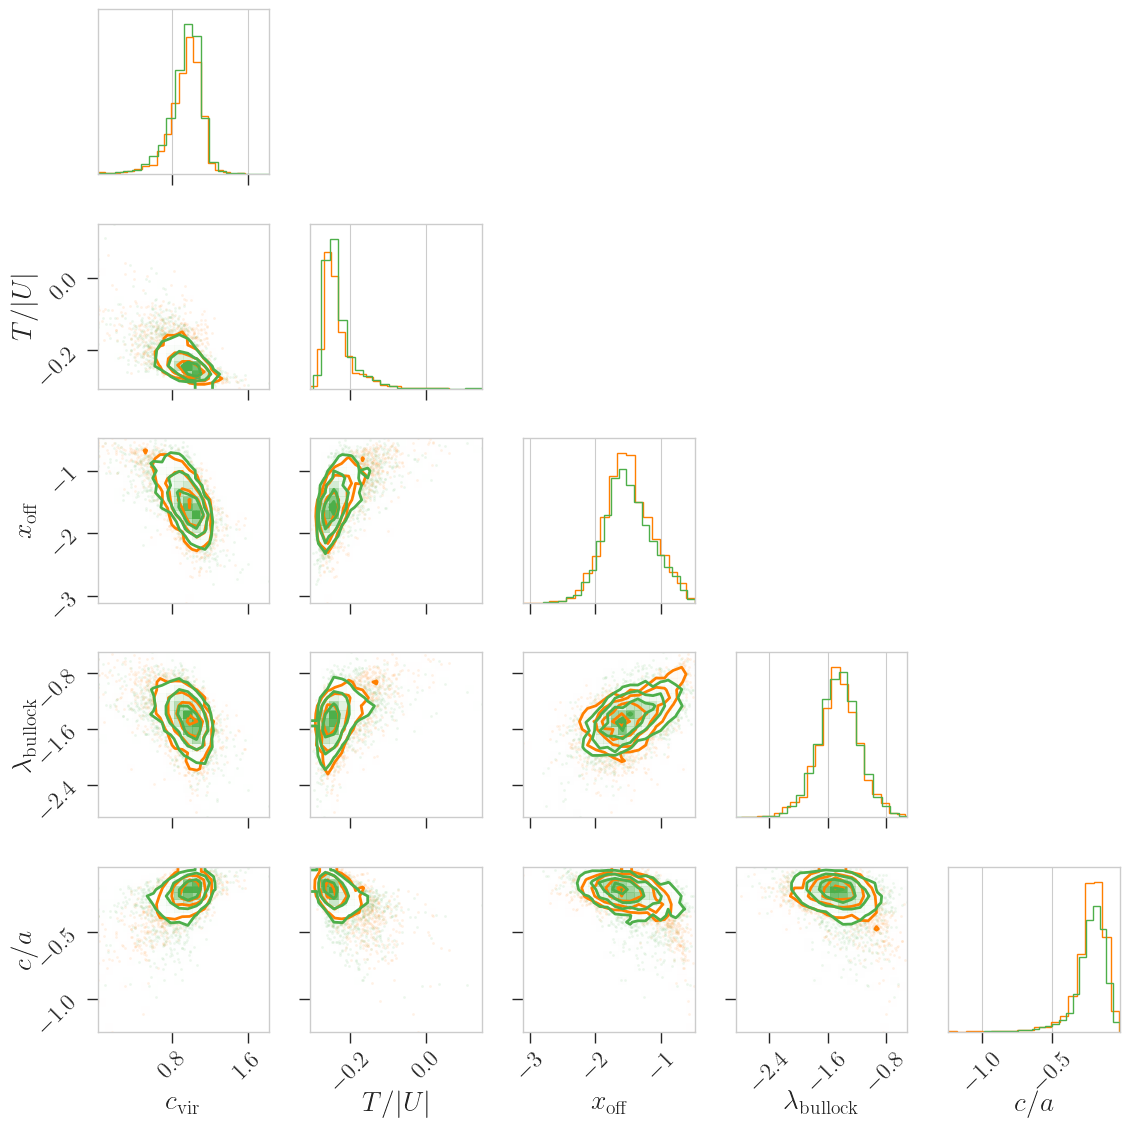
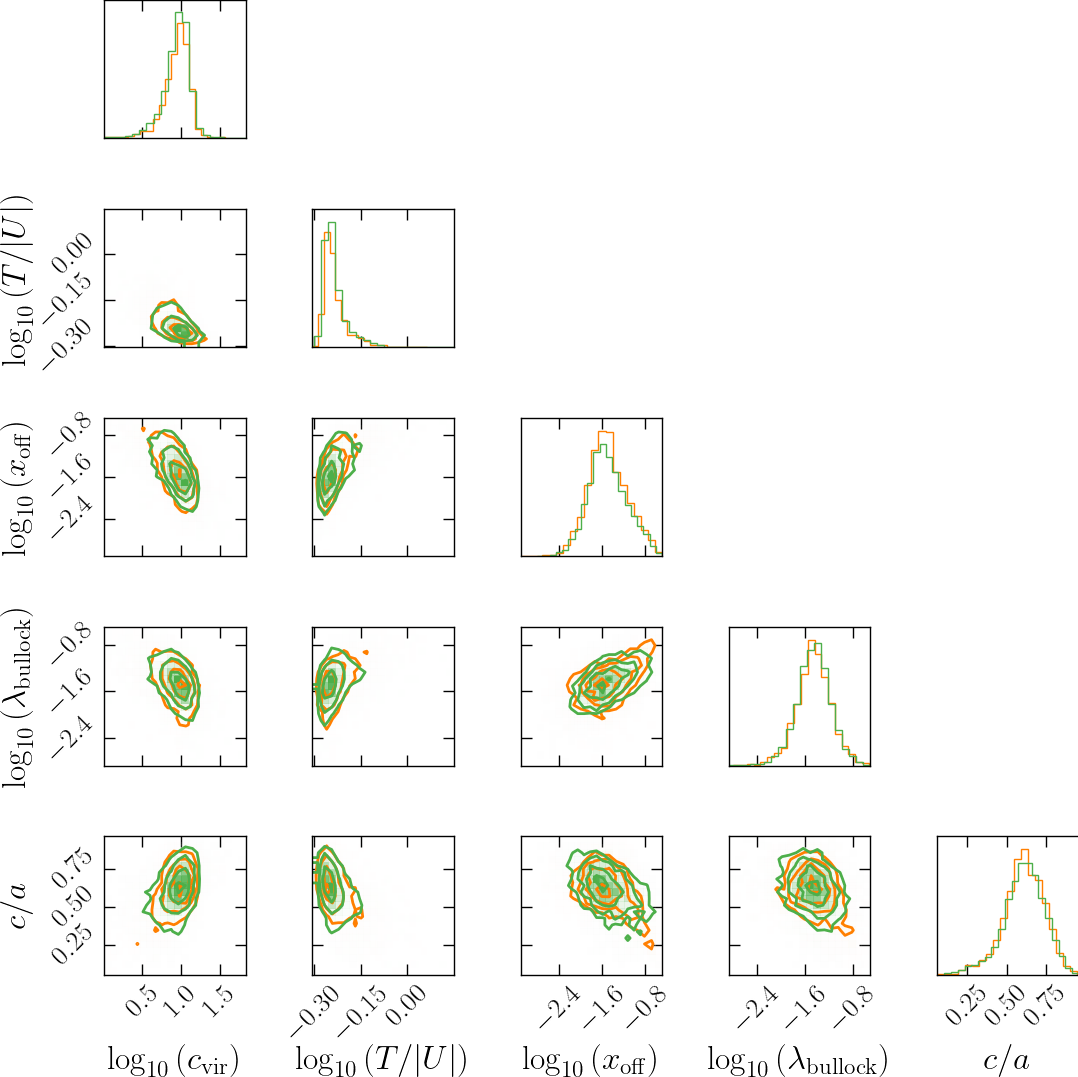
update triangle figures and add subset figures (#124)
* update triangle figures and add subset figures

* remove commented out

diff --git a/bin/figures.py b/bin/figures.py
@@ -52,10 +52,11 @@ class Figure(ABC):
     cache_name = ""
     params = ()
 
-    def __init__(self, overwrite=False, ext="png") -> None:
+    def __init__(self, overwrite=False, ext="png", style="seaborn-whitegrid") -> None:
         self.cache_file = CACHE_DIR.joinpath(self.cache_name).with_suffix(".npy")
         self.ext = "." + ext
         self.overwrite = overwrite
+        self.style = style
 
     @abstractmethod
     def _set_rc(self):
@@ -74,10 +75,13 @@ class Figure(ABC):
             data = self.get_data()
             np.save(self.cache_file, data)
         data = np.load(self.cache_file, allow_pickle=True)
+        plt.style.use(self.style)
         self._set_rc()
         figs = self.get_figures(data.item())
         for name, fig in figs.items():
-            fig.savefig(FIGS_DIR.joinpath(name).with_suffix(self.ext), bbox_inches="tight")
+            fig.savefig(
+                FIGS_DIR.joinpath(name).with_suffix(self.ext), bbox_inches="tight", pad_inches=0
+            )
 
 
 class CorrelationMAH(Figure):
@@ -274,10 +278,11 @@ class CorrelationMAH(Figure):
 class TriangleSamples(Figure):
     cache_name = "triangle"
     params = ("cvir", "t/|u|", "x0", "spin_bullock", "c_to_a")
-    which_log = [True, True, True, True, True, False, False]
+    which_log = [True, True, True, True, False]
+    subset_params = [2, 3, 4]
 
     def _set_rc(self):
-        return set_rc()
+        set_rc(fontsize=24)
 
     def get_data(self):
         mah_data = get_mah(MAH_DIR, cutoff_missing=0.05, cutoff_particle=0.05)
@@ -339,16 +344,62 @@ class TriangleSamples(Figure):
 
     def get_figures(self, data: Dict[str, np.ndarray]) -> Dict[str, mpl.figure.Figure]:
         figs = {}
+
+        # (1) multicam gaussian samples on all params.
         labels = [rxplots.LATEX_PARAMS[param] for param in self.params]
+        labels = [
+            rf"$\log_{{10}} \left({label[1:-1]}\right)$" if self.which_log[ii] else label
+            for ii, label in enumerate(labels)
+        ]
         y_true = data.pop("truth")
         y1 = self.transform(y_true)
-        for name, y_est in data.items():
-            y2 = self.transform(y_est)
-            fig = corner.corner(y1, labels=labels, max_n_ticks=3, color="C1", labelpad=0.05)
+        y2 = self.transform(data["multigauss"])
+        fig = corner.corner(
+            y1, labels=labels, max_n_ticks=4, color="C1", labelpad=0.2, plot_datapoints=False
+        )
+        fig = corner.corner(
+            y2,
+            labels=labels,
+            max_n_ticks=4,
+            fig=fig,
+            color="C2",
+            labelpad=0.2,
+            plot_datapoints=False,
+        )
+        figs["multigauss_triangle"] = fig
+
+        # (2) Now a subset set of 3 triangle plots without histograms.
+        ndim = len(self.subset_params)
+        for name, yest in data.items():
+            y2 = self.transform(yest)
+            _y1 = y1[:, self.subset_params]
+            _y2 = y2[:, self.subset_params]
+            _labels = [labels[ii] for ii in self.subset_params]
             fig = corner.corner(
-                y2, labels=labels, max_n_ticks=3, fig=fig, color="C2", labelpad=0.05
+                _y1, labels=_labels, color="C1", labelpad=0.05, max_n_ticks=4, plot_datapoints=False
             )
-            figs[name + "_triangle"] = fig
+            fig = corner.corner(
+                _y2,
+                labels=_labels,
+                fig=fig,
+                color="C2",
+                labelpad=0.05,
+                max_n_ticks=4,
+                plot_datapoints=False,
+            )
+
+            # remove histograms
+            axes = np.array(fig.axes).reshape((ndim, ndim))
+            for ii in range(ndim):
+                ax: plt.Axes = axes[ii, ii]
+                ax.set_xmargin(0)
+                ax.set_ymargin(0)
+                ax.set_axes_locator(plt.NullLocator())
+                ax.set_axis_off()
+                ax.remove()
+            plt.subplots_adjust(top=1, bottom=0, right=1, left=0, hspace=0, wspace=0)
+            figs[f"{name}_subset_triangle"] = fig
+
         return figs
 
 
@@ -499,7 +550,7 @@ class InvPredMetrics(Figure):
     params = ("a2", "alpha", "mdyn", "tau_c", "alpha_late", "alpha_early")
 
     def _set_rc(self):
-        return set_rc(fontsize=28, lgsize=20, lgloc="lower left", figsize=(8, 8))
+        set_rc(fontsize=28, lgsize=20, lgloc="lower left", figsize=(8, 8))
 
     def get_data(self):
         mah_data = get_mah(MAH_DIR, cutoff_missing=0.05, cutoff_particle=0.05)
@@ -866,7 +917,7 @@ class CovarianceAm(Figure):
     cache_name = "covariance_am"
 
     def _set_rc(self):
-        return set_rc(fontsize=24, cmap="tab10")
+        set_rc(fontsize=24, cmap="tab10")
 
     def get_data(self):
         mahdir = ROOT.joinpath("data", "processed", "bolshoi_m12")
@@ -912,7 +963,7 @@ class CovarianceAm(Figure):
 @click.option("--ext", default="png", type=str)
 def main(overwrite, ext):
     CorrelationMAH(overwrite, ext).save()
-    TriangleSamples(overwrite, ext).save()
+    TriangleSamples(overwrite, ext, style="classic").save()
     PredictMAH(overwrite, ext).save()
     InvPredMetrics(overwrite, ext).save()
     ForwardPredMetrics(overwrite, ext).save()

diff --git a/relaxed/plotting.py b/relaxed/plotting.py
@@ -62,7 +62,6 @@ def set_rc(
     cmap="Greys",
 ):
     # relative to fontsize options: 'xx-small', 'x-small', 'small', 'medium', 'large', 'x-large'
-    plt.style.use("seaborn-whitegrid")
     rc_params = {
         # figure
         "figure.figsize": figsize,  # default single axis
